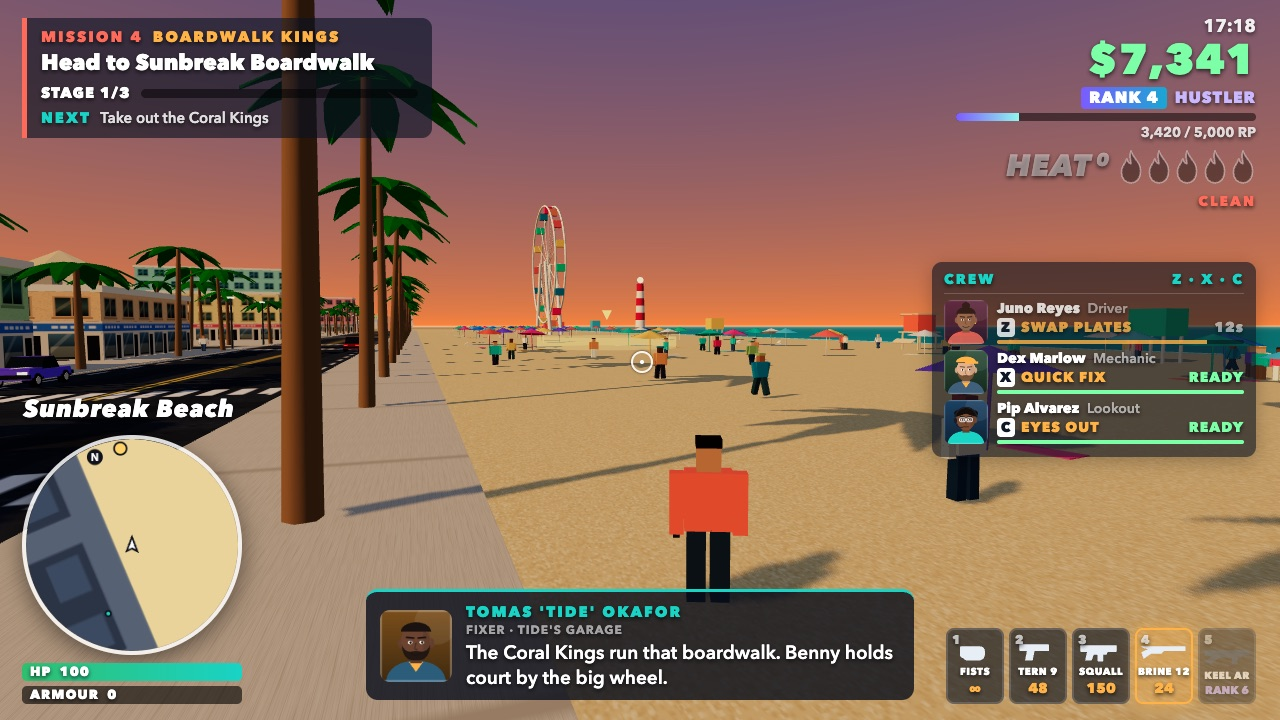
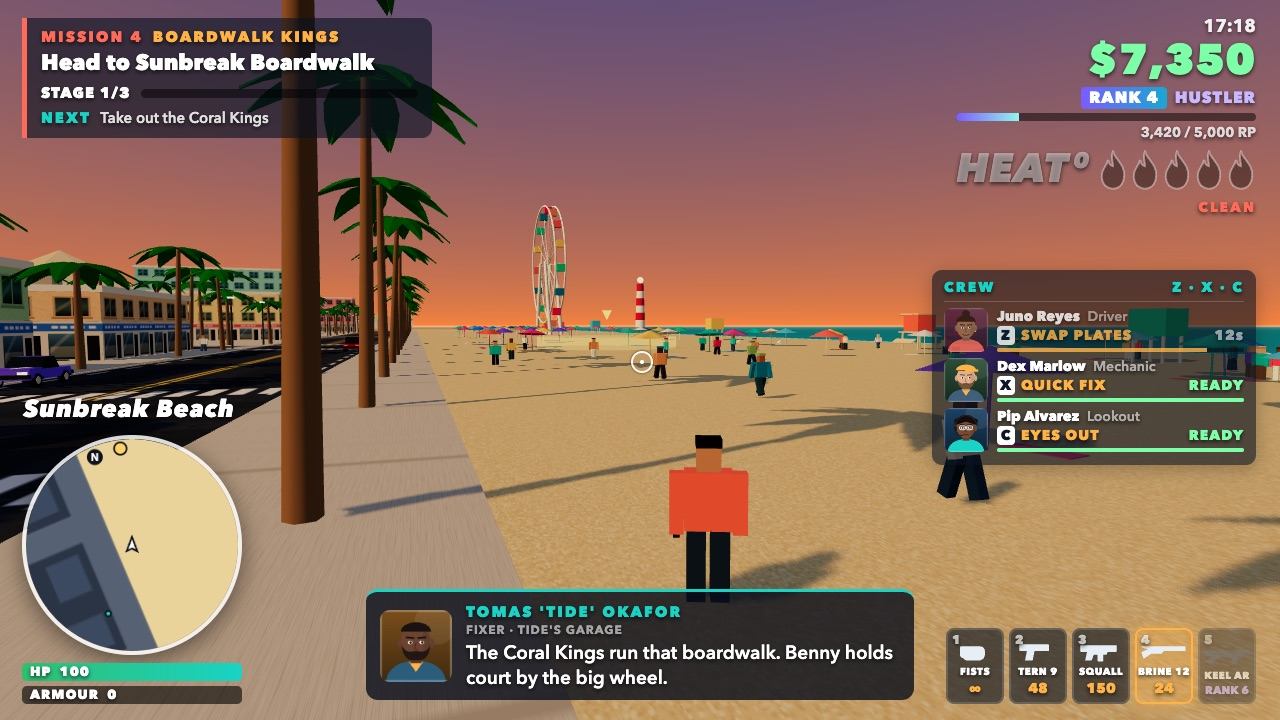
Night aerial pursuit shot with mission timer, bigger HEAT display, systems test

diff --git a/game/src/shots/ShotDirector.js b/game/src/shots/ShotDirector.js
@@ -42,6 +42,7 @@ function veteran(game, rp, { fix = 0, plates = 0, eyes = false } = {}) {
 function finish(game) {
   quietBanner(game);
   game.hud.toastT = 0; game.hud.el.toast.style.display = 'none';
+  game.hud.shownMoney = game.money;
   game.forceDistrict = true;
   game.hud.refreshAll();
   game.minimap.draw(0);
@@ -149,6 +150,41 @@ const SHOTS = {
     game.hud.sayNow([{ who: { ...CAST.nadia }, text: 'Vault timer is running. Hold the lobby, Rae!' }]);
     const p = game.player.position;
     frame(game, { x: p.x - 3.4, y: 2.6, z: p.z - 4.6 }, { x: p.x + 5, y: 3.6, z: p.z + 30 });
+    finish(game);
+  },
+
+  // Aerial, after dark: the ledger run through Halcyon Downtown against the clock, HAWK-1's
+  // searchlight on Rae, cruisers strung out behind and a roadblock waiting a block ahead.
+  night(game) {
+    game.startPlaying();
+    game.sky.setHour(21.6);
+    game.money = 12940;
+    veteran(game, 2280, { plates: 22, eyes: true });
+    jumpToStep(game, 1, 'goto');
+    game.missions.advance();
+    game.missions.timer = 97;
+    const x = 150, z = roadCoord(4) - LANE;
+    for (const s of game.traffic.parkingSpots) if (Math.abs(s.z - z) < 16) s.taken = true;
+    const car = new Vehicle(game, 'kestrel', x, z, -Math.PI / 2);
+    car.vx = -27; car.health = 64;
+    game.vehicles.push(car);
+    game.player.enterVehicle(car);
+    game.camera.snapBehind(-Math.PI / 2);
+    game.player.health = 61; game.player.armor = 20;
+    game.wanted.setLevel(4);
+    const heli = game.wanted.heli;
+    heli.placeOver(car.x, car.z, -36, 6);
+    heli.vx = -27;
+    for (const [ox, oz] of [[8, 0.3], [13, 7.2], [20, 3.5], [31, 7]]) { const c = game.wanted.addPoliceCar(x + ox, z + oz, -Math.PI / 2); c.vx = -27.5; }
+    game.wanted.roadblocks.place(x - 96, roadCoord(4), 'x');
+    game.traffic.spawnCar(4, 4, { x: 1, z: 0 }, 20, 'taxi');
+    game.traffic.spawnCar(3, 4, { x: 1, z: 0 }, 40, 'scooter', '#ff9db0');
+    game.traffic.spawnCar(3, 3, { x: 0, z: 1 }, 30);
+    for (const [bi, bj] of [[3, 3], [4, 3], [3, 4], [4, 4]]) for (let i = 0; i < 4; i++) game.peds.spawnOnBlock(bi, bj, 15 + i * 60);
+    game.input.down.add('KeyW');
+    simulate(game, 0.9, () => { game.wanted.lastX = car.x; game.wanted.lastZ = car.z; });
+    game.hud.sayNow([{ who: { ...CAST.nadia }, text: 'Ninety seconds, sweetheart. Bring me that ledger or don\'t come back.' }]);
+    frame(game, { x: car.x + 52, y: 24, z: car.z + 5 }, { x: car.x - 30, y: 0, z: car.z + 1 });
     finish(game);
   },
 

diff --git a/game/styles/hud.css b/game/styles/hud.css
@@ -58,12 +58,12 @@ html, body { margin: 0; height: 100%; overflow: hidden; background: #0d1726; fon
 #rank-fill { height: 100%; width: 0; background: linear-gradient(90deg, #7b5cff, #8ff7ec); }
 #rank-rp { font-size: 14px; font-weight: 700; color: rgba(255,255,255,.8); }
 #heat { margin-top: 8px; display: flex; align-items: center; justify-content: flex-end; gap: 8px; flex-wrap: wrap; }
-.heat-word { font-size: 30px; font-weight: 900; font-style: italic; letter-spacing: 1px; line-height: 1; color: rgba(255,255,255,.45); }
-.heat-word span { font-size: 18px; margin-left: 5px; vertical-align: top; }
+.heat-word { font-size: 40px; font-weight: 900; font-style: italic; letter-spacing: 1px; line-height: 1; color: rgba(255,255,255,.45); }
+.heat-word span { font-size: 22px; margin-left: 5px; vertical-align: top; }
 #heat.hot .heat-word { background: linear-gradient(180deg, #ffe08a, #ff4d3d); -webkit-background-clip: text; background-clip: text; color: transparent;
   filter: drop-shadow(0 2px 3px rgba(0,0,0,.7)); }
 #heat-flames { display: flex; gap: 2px; }
-.flame { width: 26px; height: 34px; }
+.flame { width: 30px; height: 40px; }
 .flame path { fill: rgba(0,0,0,.4); stroke: rgba(255,255,255,.4); stroke-width: 1.5; }
 .flame path.core { fill: none; stroke: none; }
 .flame.on path { fill: #ff4d3d; stroke: #ffe08a; filter: drop-shadow(0 0 5px #ff4d3d); }
@@ -75,7 +75,7 @@ html, body { margin: 0; height: 100%; overflow: hidden; background: #0d1726; fon
 #heat-status { width: 100%; font-size: 14px; font-weight: 900; letter-spacing: 2px; color: var(--coral); }
 #rp-feed { margin-top: 4px; font-size: 15px; font-weight: 800; color: #c9b8ff; line-height: 1.4; }
 
-#crew-panel { position: absolute; right: 24px; top: 262px; width: 300px; }
+#crew-panel { position: absolute; right: 24px; top: 270px; width: 300px; }
 .crew-row { display: flex; gap: 9px; align-items: center; margin: 5px 0; opacity: .8; }
 .crew-row.ready, .crew-row.active { opacity: 1; }
 .crew-pic { width: 44px; height: 44px; border-radius: 8px; flex: 0 0 44px; }
